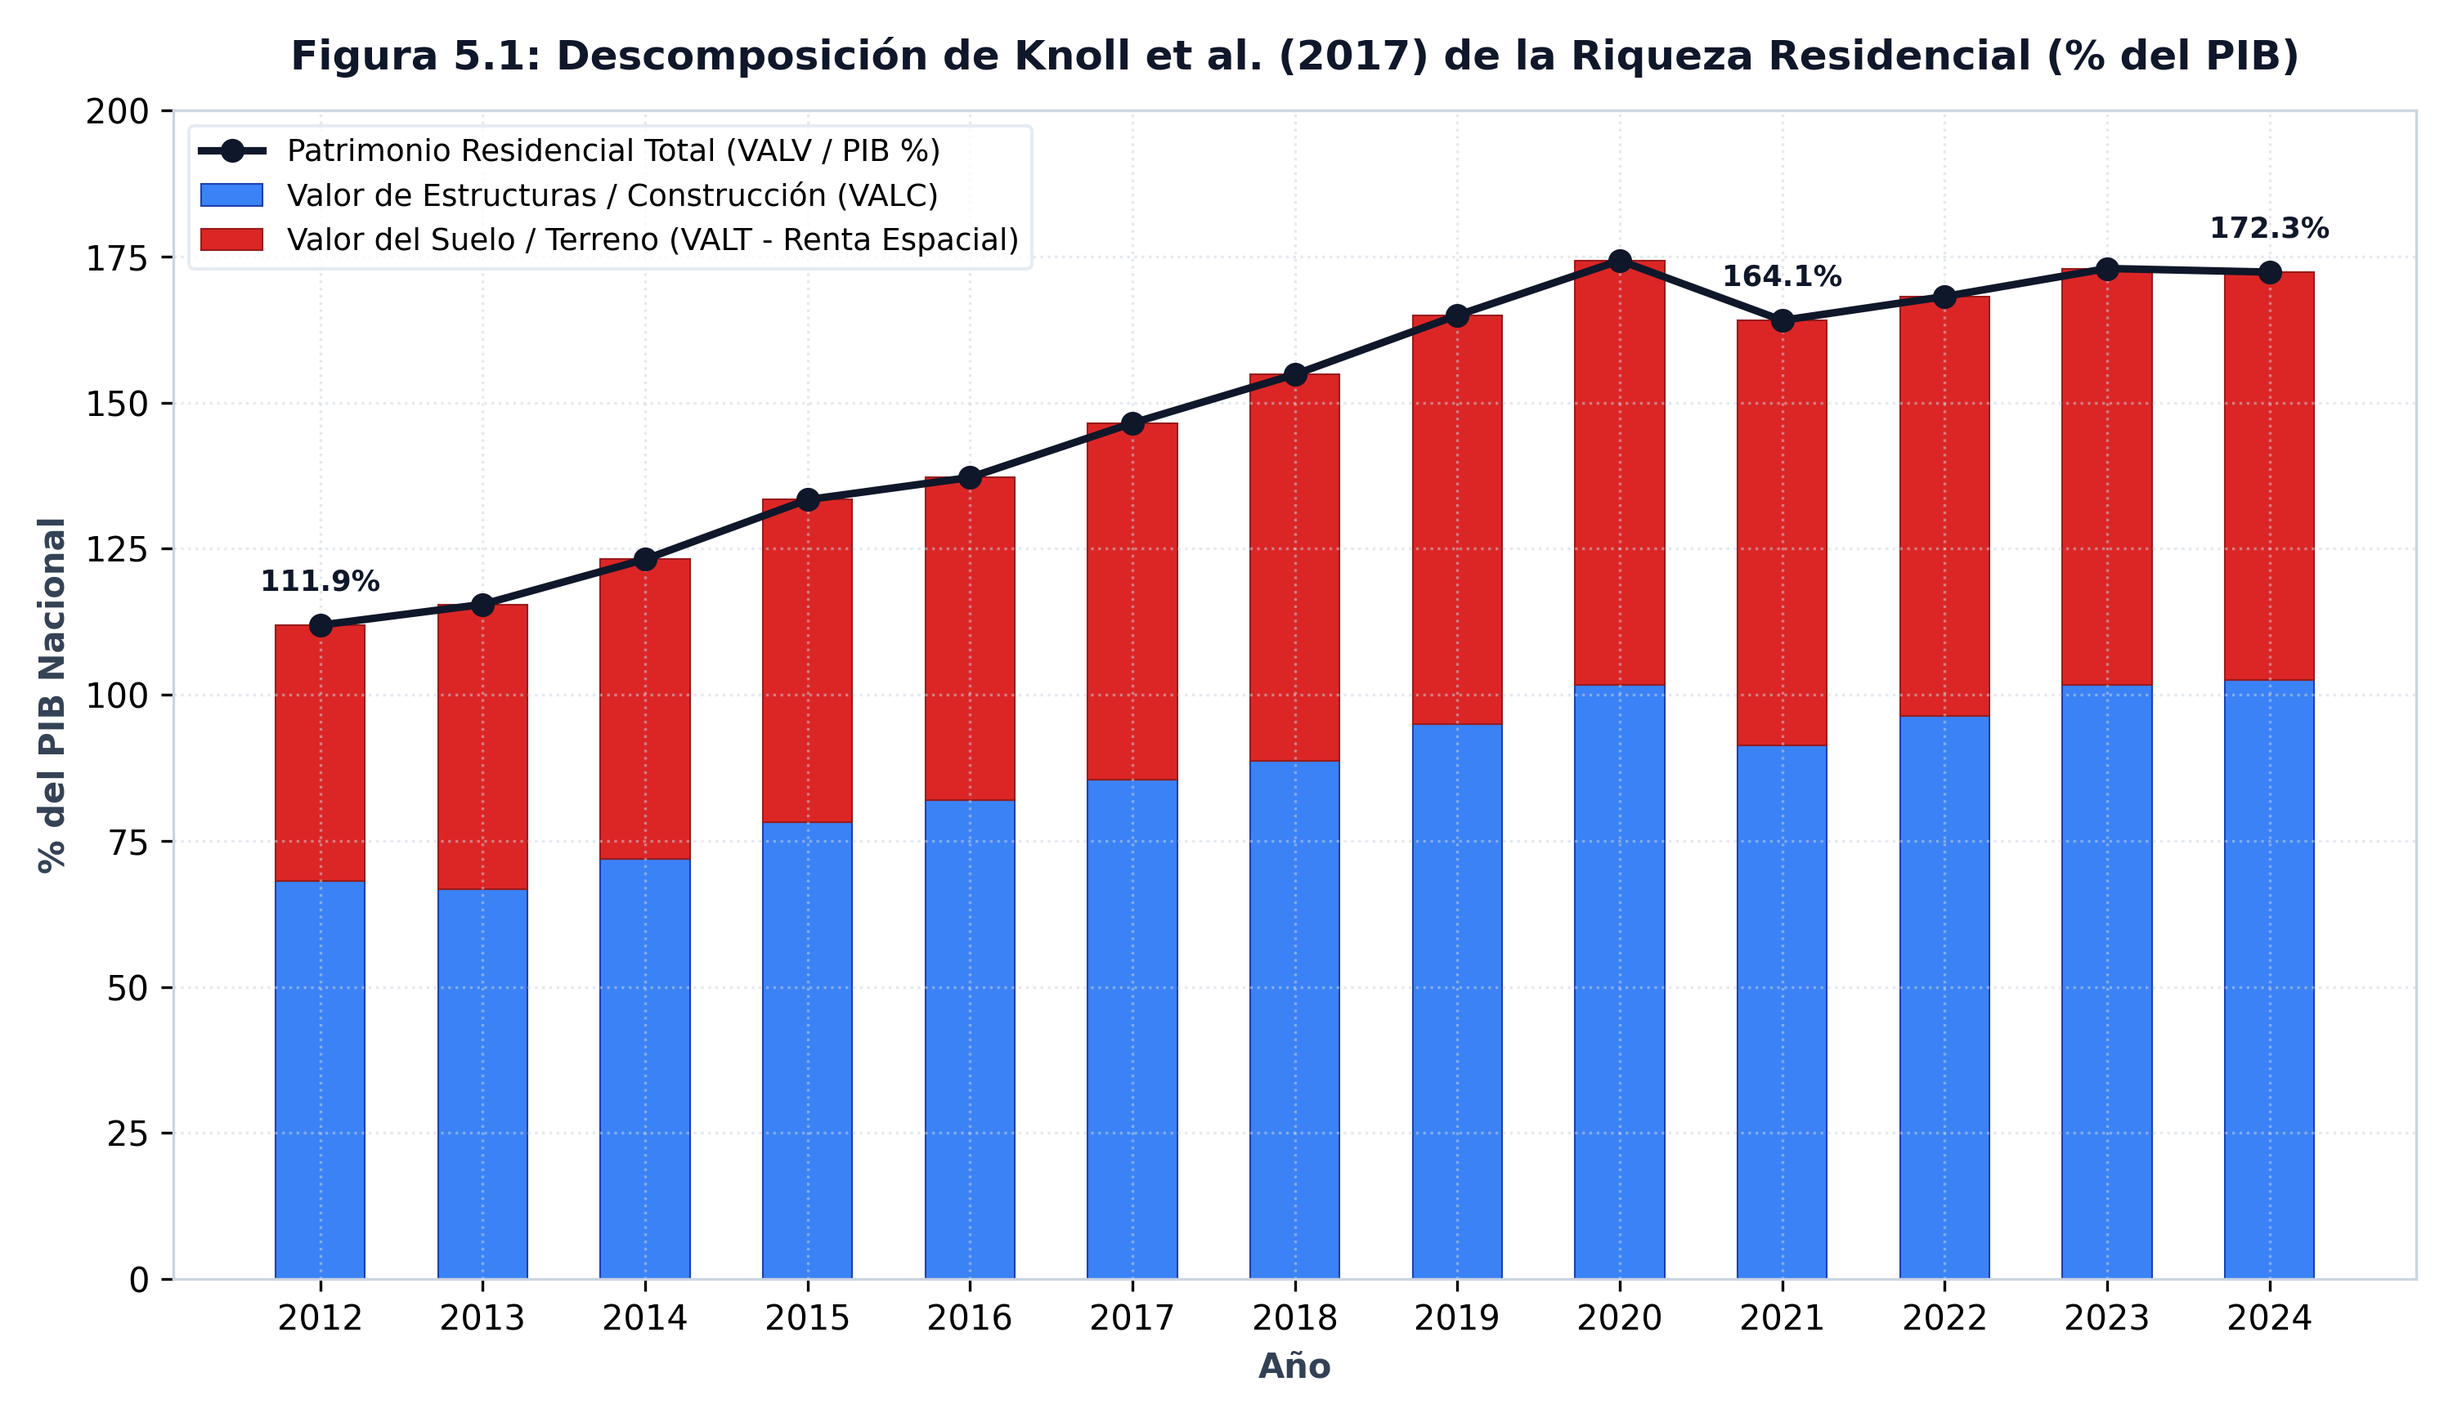
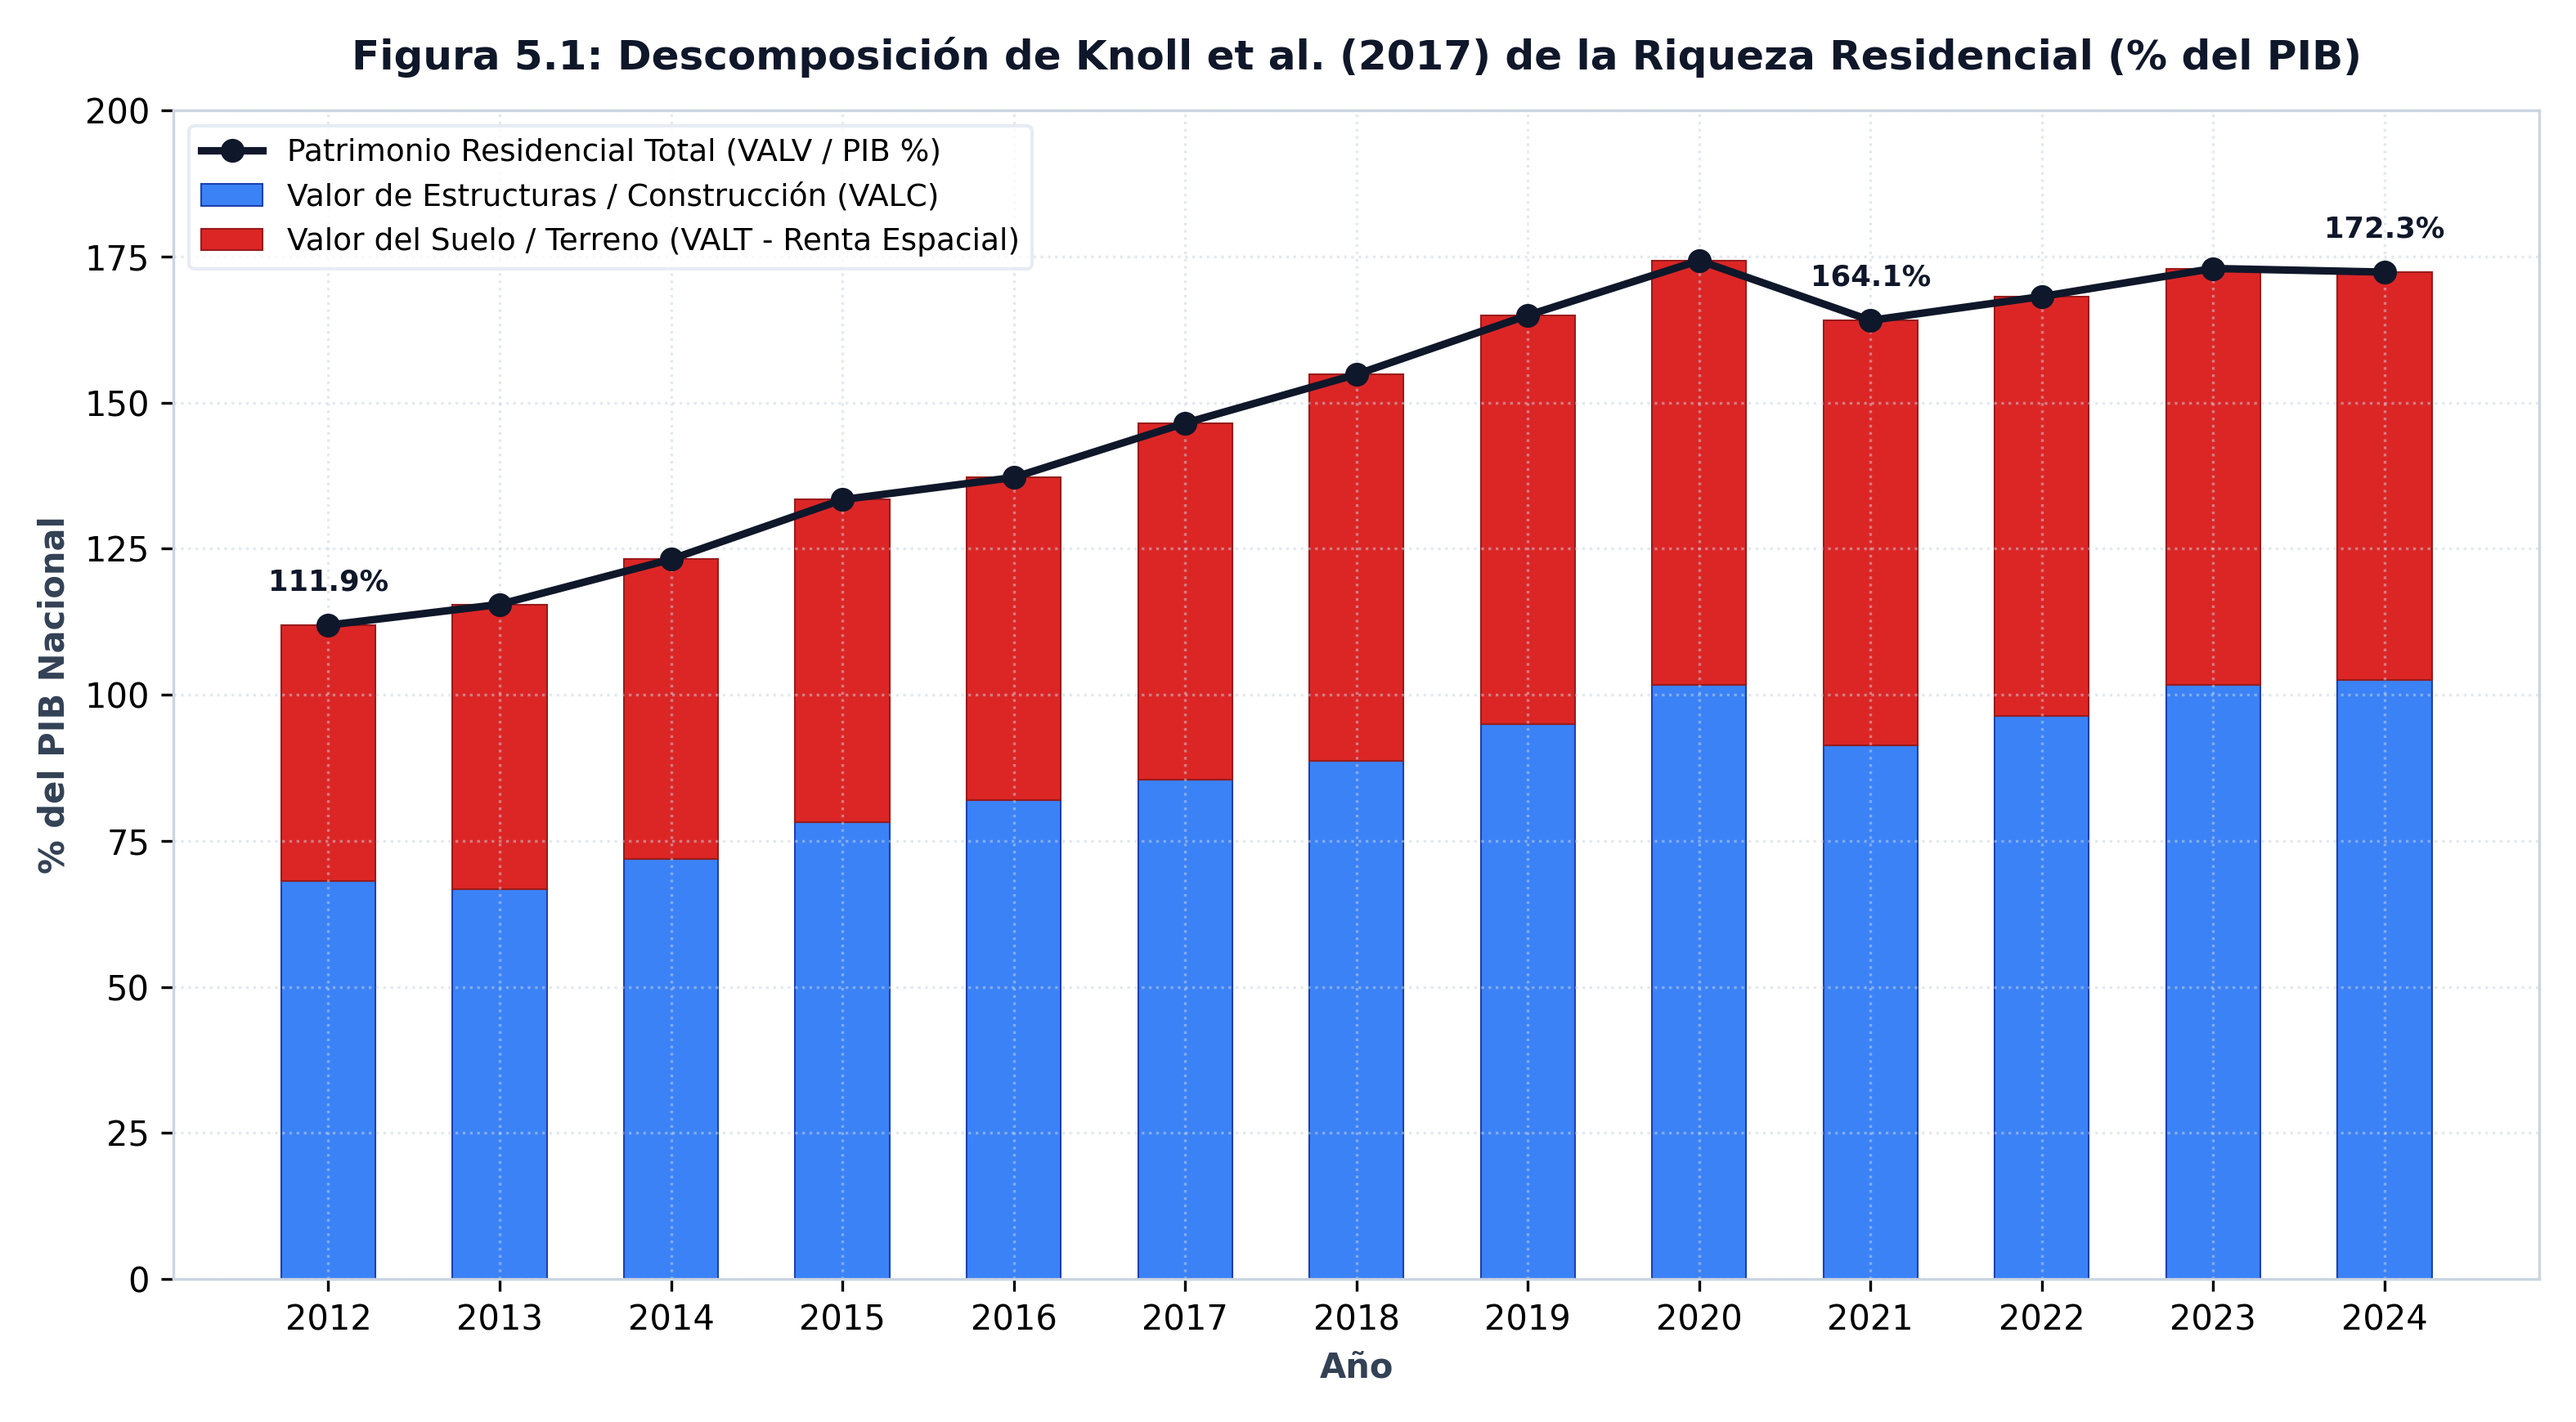
Notas metodologicas de indicadores e independización de figuras 5.2 y 5.3 en Reporte 5

diff --git a/bcch/reportes/report5-reserva-valor.html b/bcch/reportes/report5-reserva-valor.html
@@ -623,11 +623,37 @@ window.Quarto = {
 <figcaption>Figura 5.2: Trayectoria del Índice de Precios de Vivienda (IPV Base 2008=100) por Macro-Zonas y Subzonas RM (2002–2026)</figcaption>
 </figure>
 </div>
+<div class="callout callout-style-default callout-note callout-titled">
+<div class="callout-header d-flex align-content-center">
+<div class="callout-icon-container">
+<i class="callout-icon"></i>
+</div>
+<div class="callout-title-container flex-fill">
+<span class="screen-reader-only">Note</span>Cálculo del Índice de Precios de Vivienda (<span class="math inline">\(IPV\)</span>, Figura 5.2)
+</div>
+</div>
+<div class="callout-body-container callout-body">
+<p>El Banco Central de Chile calcula el <span class="math inline">\(IPV\)</span> trimestralmente (Base 2008=100) mediante la metodología de precios hedónicos. La serie <span class="math inline">\(IPV_{z,t}\)</span> aísla la variación pura de precios controlando por atributos físicos estables (superficie, antigüedad, estructura y localización). Las cuatro subzonas de la Región Metropolitana (<code>IPVZ41</code> Centro, <code>IPVZ42</code> Oriente, <code>IPVZ43</code> Poniente y <code>IPVZ44</code> Sur) y las tres macro-zonas del país (<code>IVPZ1</code> Norte, <code>IPVZ2</code> Centro y <code>IPVZ3</code> Sur) permiten comparar la velocidad de apreciación del activo residencial. La expansión del IPV en la RM Poniente (+250,3% acumulado) frente a la Macro-Zona Centro (+147,1%) documenta la intensidad desigual de la captura de renta de localización.</p>
+</div>
+</div>
 <div class="quarto-figure quarto-figure-center">
 <figure class="figure">
 <p><img src="../assets/fig5_3_densidad_valor.png" class="img-fluid figure-img"></p>
-<figcaption>Figura 5.3: Concentración Territorial y Densidad de Valor por Metro Cuadrado por Macro-Zona (2024)</figcaption>
+<figcaption>Figura 5.3: Densidad de Valor Residencial por Metro Cuadrado por Macro-Zona (2024)</figcaption>
 </figure>
+</div>
+<div class="callout callout-style-default callout-note callout-titled">
+<div class="callout-header d-flex align-content-center">
+<div class="callout-icon-container">
+<i class="callout-icon"></i>
+</div>
+<div class="callout-title-container flex-fill">
+<span class="screen-reader-only">Note</span>Cálculo de la Densidad de Valor por Metro Cuadrado (Figura 5.3)
+</div>
+</div>
+<div class="callout-body-container callout-body">
+<p>La densidad de valor cuantifica la masa patrimonial contenida por unidad de superficie física en 2024 a partir de dos razones: 1. <strong>Valor por <span class="math inline">\(m^2\)</span> construido (<span class="math inline">\(v^c_z = VALV_z / MCC_z\)</span>):</strong> Cociente entre el valor de mercado total del stock habitacional de la zona <span class="math inline">\(z\)</span> (<span class="math inline">\(VALV_z\)</span>, en pesos) y los metros cuadrados construidos acumulados (<span class="math inline">\(MCC_z\)</span>). La Región Metropolitana registra $1.669 mil / <span class="math inline">\(m^2\)</span>, frente a $930 mil / <span class="math inline">\(m^2\)</span> en la Macro-Zona Sur. 2. <strong>Valor por <span class="math inline">\(m^2\)</span> de terreno (<span class="math inline">\(v^t_z = VALV_z / MCT_z\)</span>):</strong> Cociente entre el valor total habitacional y los metros cuadrados totales del predio (<span class="math inline">\(MCT_z\)</span>). En la Región Metropolitana alcanza $542 mil / <span class="math inline">\(m^2\)</span> de terreno, cuadruplicando la densidad de las macro-zonas Centro ($146 mil / <span class="math inline">\(m^2\)</span>) y Sur ($130 mil / <span class="math inline">\(m^2\)</span>), lo que refleja la hiper-concentración de la renta del suelo en la capital.</p>
+</div>
 </div>
 <div class="caveat">
 <p><strong>La geografía son macro-zonas, no regiones.</strong> El Banco Central publica el IPV y el valor del stock habitacional para 4 macro-zonas (Norte, Centro, Sur y RM) y cuatro subdivisiones metropolitanas de Santiago. La descomposición terreno/construcción (<code>VALT</code> vs <code>VALC</code>) sólo existe a escala nacional (<code>NAC</code>, <code>CAS</code>, <code>DEP</code>) y no está disponible para macro-zonas individuales.</p>
